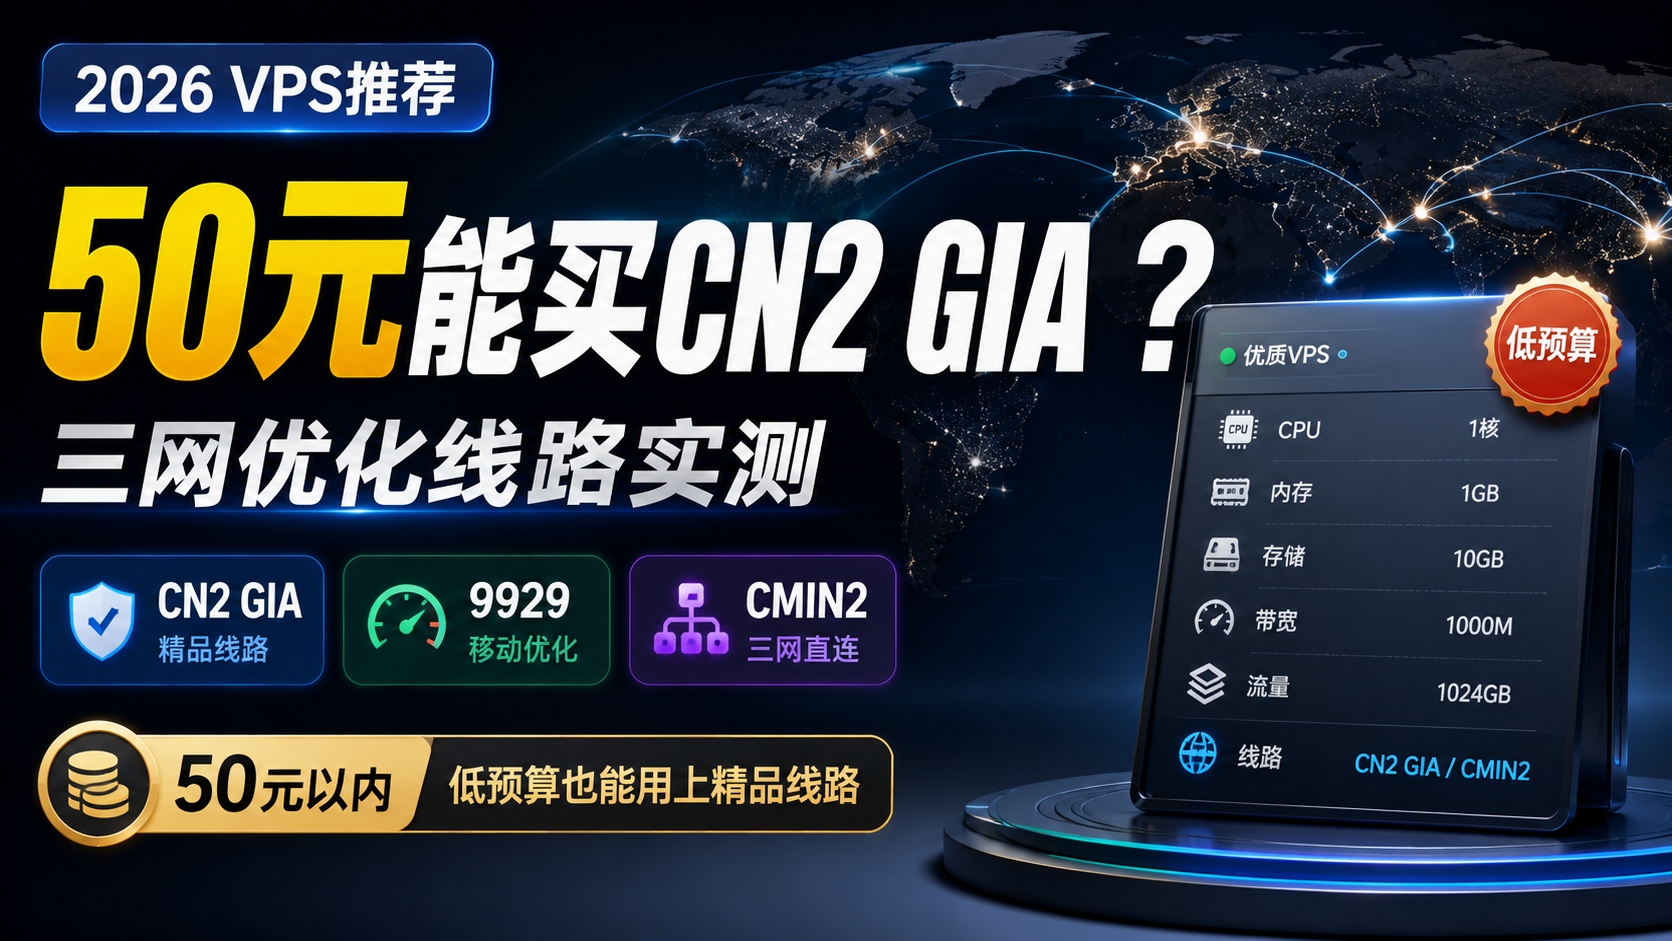
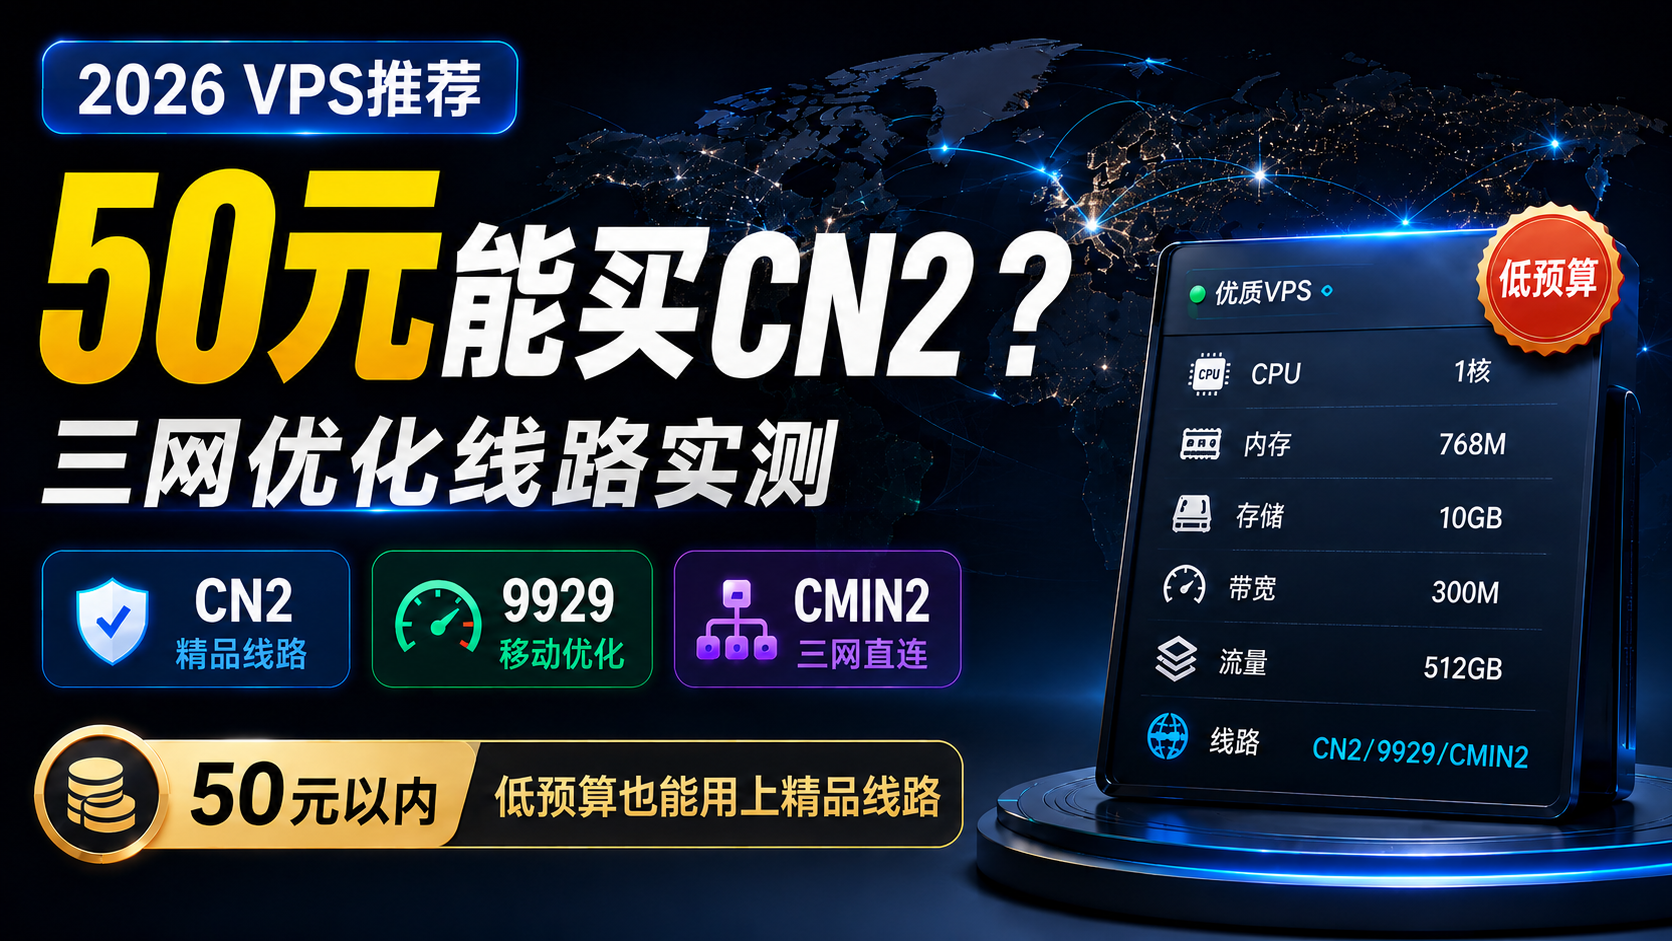
1

diff --git a/docs/recommend/3-isp/index.md b/docs/recommend/3-isp/index.md
@@ -73,10 +73,10 @@ hide:
 
 | 代理平台 | 核心特点与站长避坑提示 | 优惠码 | 跳转链接 |
 | :--- | :--- | :--- | :--- |
-| <span style="white-space: nowrap;">📦 MIYAIP</span> | **自带中转节点（可以直连）** | `V88D` | [🔗 点击跳转][miyaip] |
-| <span style="white-space: nowrap;">📲 985 Proxy</span> | 常规住宅代理，适合作为备选方案。 | `XIAOV007` | [🔗 点击跳转][985Proxy] |
-| <span style="white-space: nowrap;">🏠 Talor</span> | 注册时填写专属邀请码可获取相关优惠。 | `xiaov001` | [🔗 点击跳转](https://dashboard.talordata.com/reg?inviter_code=xiaov001) |
-| <span style="white-space: nowrap;">☁ Kookeey</span> | 常见的静态 / 动态 ISP 代理平台，覆盖较广。 | - | [🔗 点击跳转](https://www.kookeey.com/?aff=86916142) |
+| <span style="white-space: nowrap;">📦 MIYAIP</span> | **自带中转节点（可以直连-带宽限制20Mbps左右）** | `V88D` | [🔗 点击跳转][miyaip] |
+| <span style="white-space: nowrap;">📲 985 Proxy</span> | 常规住宅代理，适合作为备选方案（带宽需要咨询客服）。 | `XIAOV007` | [🔗 点击跳转][985Proxy] |
+| <span style="white-space: nowrap;">🏠 Talor</span> | 注册时填写专属邀请码可获取相关优惠（带宽需要咨询客服）。 | `xiaov001` | [🔗 点击跳转](https://dashboard.talordata.com/reg?inviter_code=xiaov001) |
+| <span style="white-space: nowrap;">☁ Kookeey</span> | 常见的静态 / 动态 ISP 代理平台，覆盖较广（带宽需要咨询客服）。 | - | [🔗 点击跳转](https://www.kookeey.com/?aff=86916142) |
 
 ---
 

diff --git a/docs/blog/posts/2026-08-23-panstar/index.md b/docs/blog/posts/2026-08-23-panstar/index.md
@@ -26,7 +26,7 @@ tags:
 </style>
 
 <div id="top-video" style="position: relative; padding-bottom: 56.25%; height: 0; overflow: hidden; max-width: 100%; border-radius: 8px; margin-bottom: 20px; box-shadow: 0 4px 10px rgba(0,0,0,0.1);">
-  <iframe src="https://www.youtube.com/embed/" style="position: absolute; top: 0; left: 0; width: 100%; height: 100%;" title="YouTube video player" frameborder="0" allow="accelerometer; autoplay; clipboard-write; encrypted-media; gyroscope; picture-in-picture" allowfullscreen></iframe>
+  <iframe src="https://www.youtube.com/embed/dQO0tH9XIgY" style="position: absolute; top: 0; left: 0; width: 100%; height: 100%;" title="YouTube video player" frameborder="0" allow="accelerometer; autoplay; clipboard-write; encrypted-media; gyroscope; picture-in-picture" allowfullscreen></iframe>
 </div>
 
 <script>
